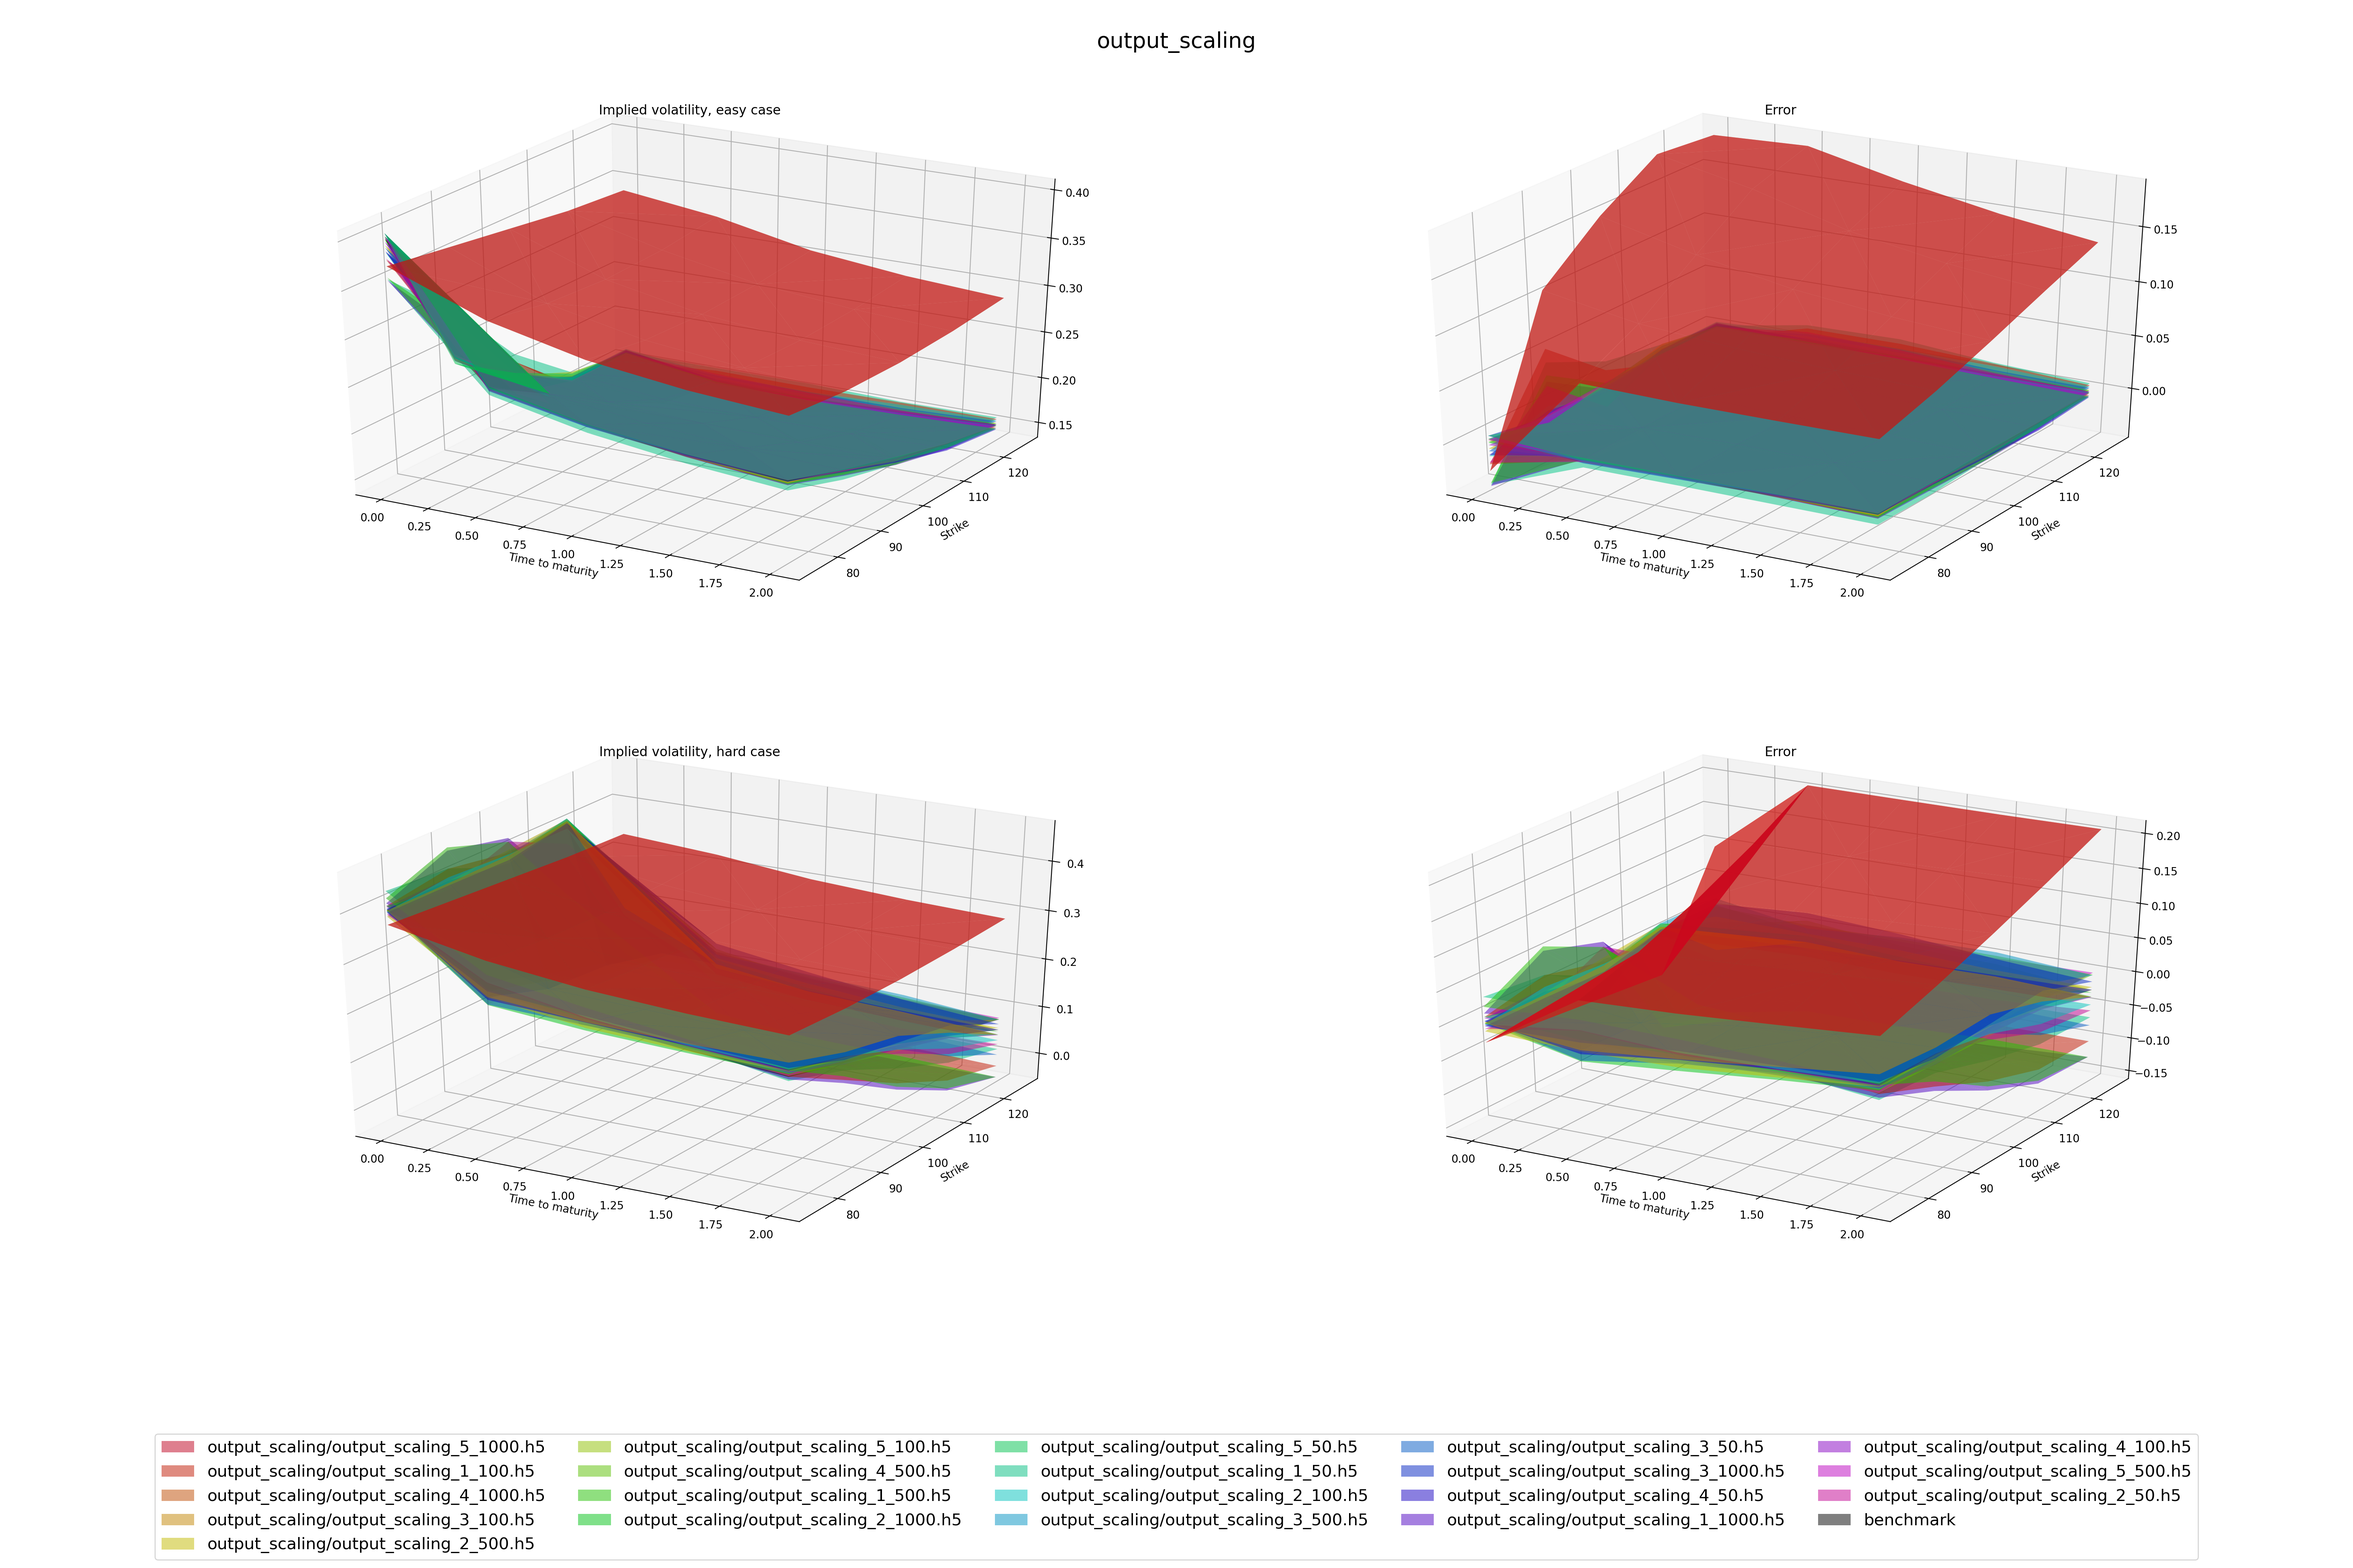
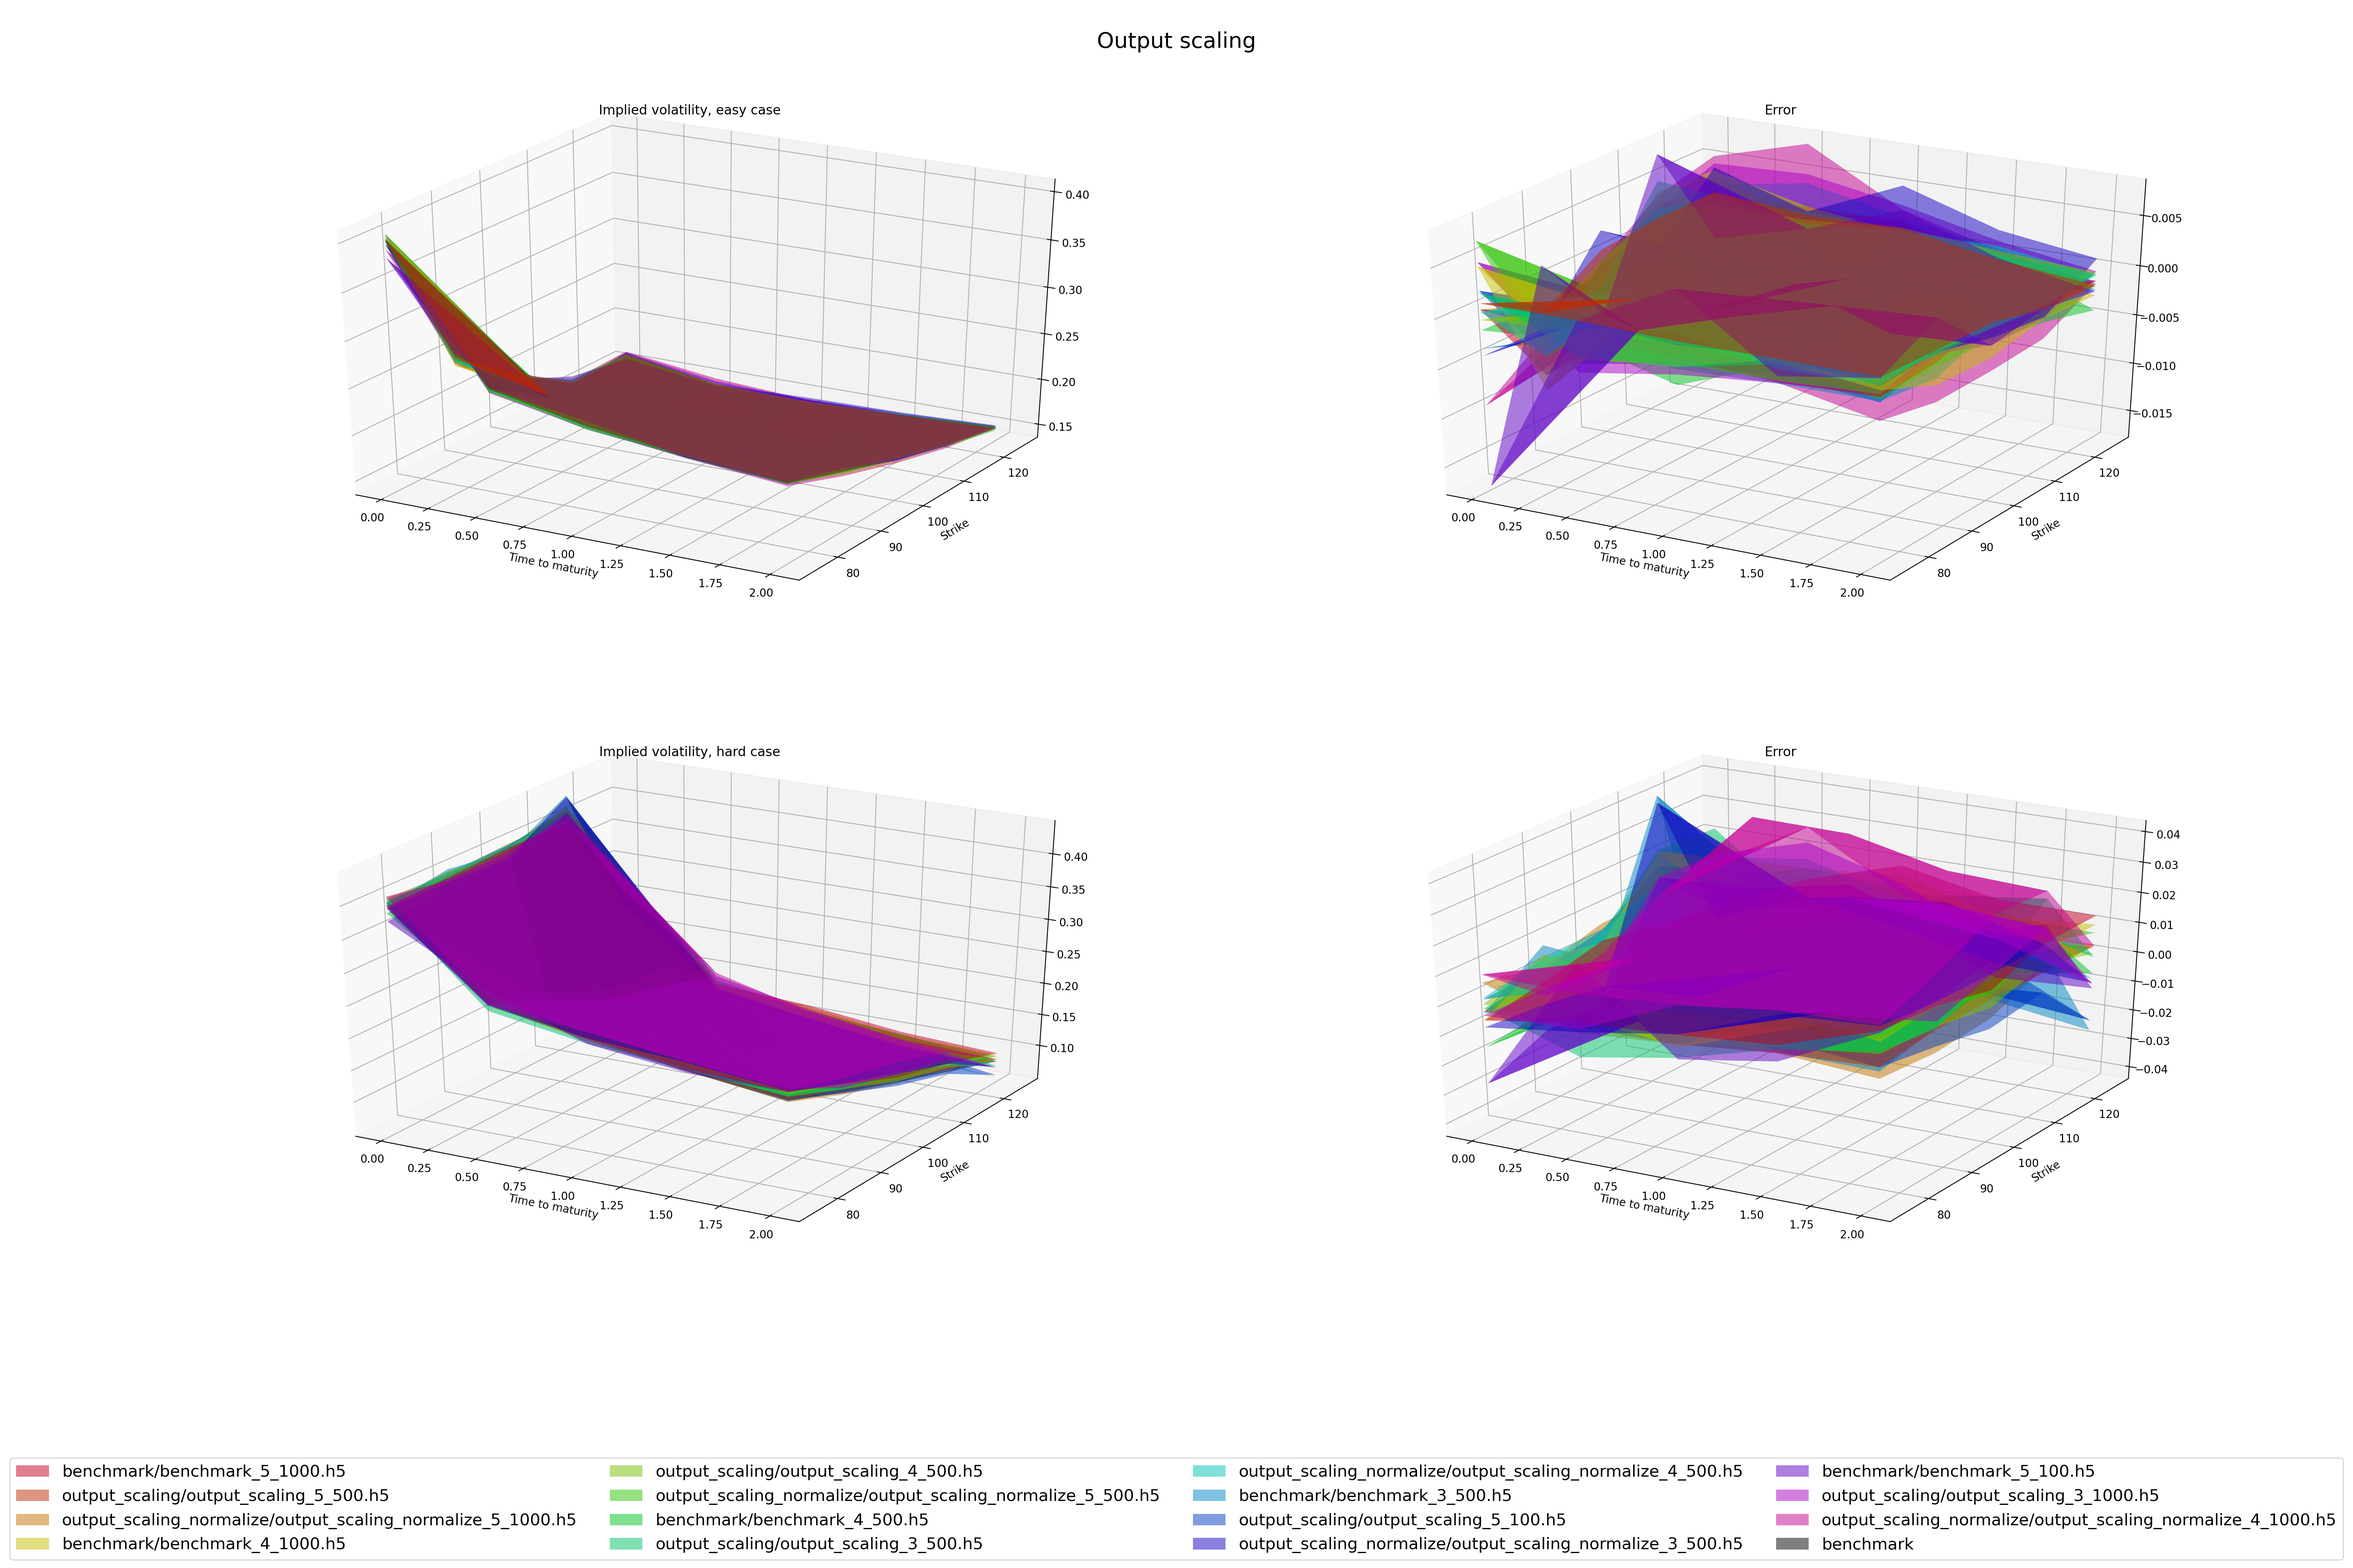
price models

diff --git a/Thesis/Heston/ModelGenerator.py b/Thesis/Heston/ModelGenerator.py
@@ -9,14 +9,14 @@ sys.path.append(os.getcwd()) # added for calc server support
 from Thesis.Heston import NNModelGenerator as mg
 
 def load_index(no : int) -> list:
-    if not (os.path.exists("Data/MC/train_index"+str(no)+".csv") and os.path.exists("Data/MC/test_index"+str(no)+".csv")):
+    if not (os.path.exists("Data/train_index_"+str(no)+".csv") and os.path.exists("Data/test_index_"+str(no)+".csv")):
         index = np.arange(no)
         train_index, test_index = train_test_split(index, test_size=0.3, random_state=42)
-        np.savetxt("Data/MC/train_index"+str(no)+".csv", train_index, delimiter=",")
-        np.savetxt("Data/MC/test_index"+str(no)+".csv", test_index, delimiter=",")
+        np.savetxt("Data/train_index_"+str(no)+".csv", train_index, delimiter=",")
+        np.savetxt("Data/test_index_"+str(no)+".csv", test_index, delimiter=",")
     else:
-        train_index = np.loadtxt("Data/MC/train_index"+str(no)+".csv", delimiter=",").astype(int)
-        test_index = np.loadtxt("Data/MC/test_index"+str(no)+".csv", delimiter=",").astype(int)
+        train_index = np.loadtxt("Data/train_index_"+str(no)+".csv", delimiter=",").astype(int)
+        test_index = np.loadtxt("Data/test_index_"+str(no)+".csv", delimiter=",").astype(int)
 
     return train_index, test_index
 
@@ -131,7 +131,7 @@ if __name__ == '__main__':
         itertools.repeat("price_include"), layer_neuron_combs[:, 0], layer_neuron_combs[:, 1], \
         itertools.repeat("normal"), itertools.repeat("False"), itertools.repeat(False), itertools.repeat(True)))
 
-    price_standardize_list = list(zip(itertools.repeat(data_set_1), itertools.repeat("price_standardize"), \
+    price_standardize_list = list(zip(itertools.repeat(data_set_price), itertools.repeat("price_standardize"), \
         itertools.repeat("price_standardize"), layer_neuron_combs[:, 0], layer_neuron_combs[:, 1], \
         itertools.repeat("normal"), itertools.repeat("False"), itertools.repeat(True), itertools.repeat(False)))
 
@@ -170,7 +170,7 @@ if __name__ == '__main__':
     compute10_list = benchmark_list + benchmark_include_list + output_scaling_list + tanh_list
     compute11_list = mix_list + price_list + standardize_list + noise_list
 
-    next_list_2 = low_data_list + high_data_list + price_include_list + grid_list + grid_sobol_list + price_standardize_list
+    next_list_2 = price_include_list + price_standardize_list
 
     if cpu_count() == 4:
         cpu_cores = 4

diff --git a/Thesis/Heston/ModelTesting.py b/Thesis/Heston/ModelTesting.py
@@ -520,17 +520,17 @@ if __name__ == "__main__":
         elif (some_list[0][:some_list[0].rfind("_")-2] == "output_scaling"):
             output_scaling_models.append(some_list)
         elif (some_list[0][:some_list[0].rfind("_")-2] == "output_scaling_normalize"):
-            output_scaling_normalize_models.append(somelist)
+            output_scaling_normalize_models.append(some_list)
     benchmark_models.sort(key = lambda x: x[1])
     output_scaling_models.sort(key = lambda x : x[1])
     output_scaling_normalize_models.sort(key = lambda x : x[1])
-    generate_bar_error(benchmark_models[0:5] + output_scaling_models[0:5] + output_scaling_normalize_models[0:5], "Input scaling")
+    generate_bar_error(benchmark_models[0:5] + output_scaling_models[0:5] + output_scaling_normalize_models[0:5], "Output scaling")
     output_scaling_total_models = []
     for i in range(5):
         output_scaling_total_models.append(benchmark_models[i][0])
         output_scaling_total_models.append(output_scaling_models[i][0])
         output_scaling_total_models.append(output_scaling_normalize_models[i][0])
-    model_testing2(input_scaling_models, "Input scaling")
+    model_testing2(output_scaling_total_models, "Output scaling")
 
     ### Activation functions
     benchmark_models = []
@@ -542,7 +542,7 @@ if __name__ == "__main__":
         elif (some_list[0][:some_list[0].rfind("_")-2] == "tanh"):
             tanh_models.append(some_list)
         elif (some_list[0][:some_list[0].rfind("_")-2] == "mix"):
-            mix_models.append(somelist)
+            mix_models.append(some_list)
     benchmark_models.sort(key = lambda x: x[1])
     tanh_models.sort(key = lambda x : x[1])
     mix_models.sort(key = lambda x : x[1])
